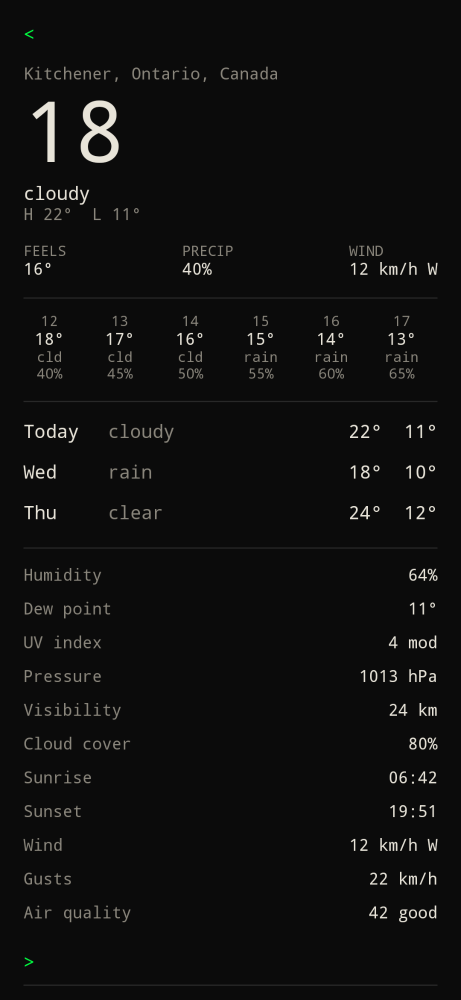
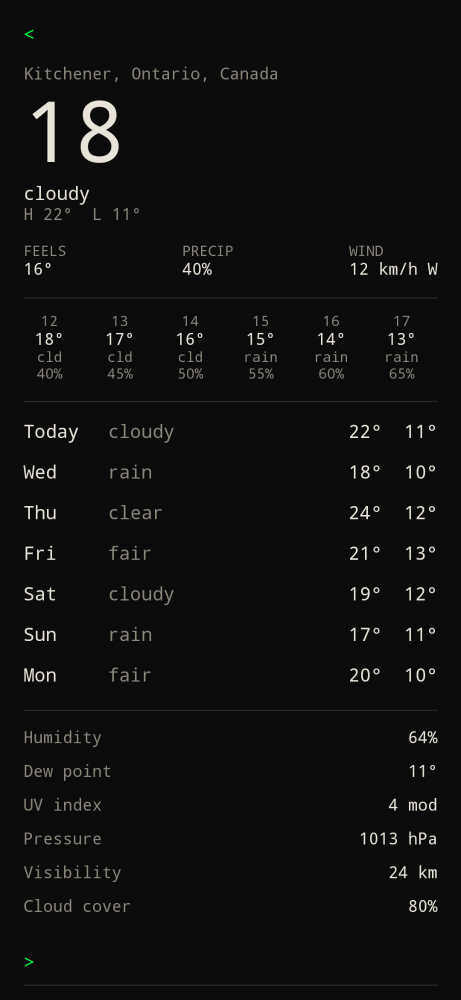
fix: show seven daily rows on the weather screen
The forecast already requested a week from Open-Meteo; the sample and
parser now keep seven days so the list is not a three-day stub.

diff --git a/app/src/test/java/xyz/cdr/builderlauncher/weather/WeatherForecastParserTest.kt b/app/src/test/java/xyz/cdr/builderlauncher/weather/WeatherForecastParserTest.kt
@@ -81,4 +81,29 @@ class WeatherForecastParserTest {
         assertEquals("cld", WeatherCodes.short(3))
         assertEquals("rain", WeatherCodes.short(61))
     }
+
+    @Test
+    fun keepsSevenDailyRows() {
+        val dates = (8..16).joinToString(",") { "\"2026-09-${it.toString().padStart(2, '0')}\"" }
+        val nums = (8..16).joinToString(",") { it.toString() }
+        val raw = """
+            {
+              "latitude": 43.45,
+              "longitude": -80.49,
+              "timezone": "America/Toronto",
+              "current": { "temperature_2m": 18, "weather_code": 3 },
+              "hourly": { "time": [], "temperature_2m": [], "weather_code": [] },
+              "daily": {
+                "time": [$dates],
+                "weather_code": [$nums],
+                "temperature_2m_max": [$nums],
+                "temperature_2m_min": [$nums]
+              }
+            }
+        """.trimIndent()
+        val forecast = WeatherForecastParser.parse(raw, fetchedAt = 0L)!!
+        assertEquals(WeatherForecast.DAYS, forecast.daily.size)
+        assertEquals("2026-09-08", forecast.daily.first().date)
+        assertEquals("2026-09-14", forecast.daily.last().date)
+    }
 }

diff --git a/app/src/main/java/xyz/cdr/builderlauncher/weather/WeatherForecast.kt b/app/src/main/java/xyz/cdr/builderlauncher/weather/WeatherForecast.kt
@@ -68,6 +68,10 @@ data class WeatherForecast(
     val daily: List<WeatherDay> = emptyList(),
     val aqi: Int? = null,
 ) {
+    companion object {
+        const val DAYS = 7
+    }
+
     fun snapshot(): WeatherSnapshot = WeatherSnapshot(
         temperature = current.temperatureC,
         condition = WeatherCodes.label(current.code),
@@ -173,7 +177,7 @@ object WeatherForecastParser {
                 sunset = sunsets.getOrNull(i)?.let { clockOf(it) },
                 uv = uvs.getOrNull(i),
             )
-        }.take(7)
+        }.take(WeatherForecast.DAYS)
     }
 
     private fun parseLocal(raw: String, zone: ZoneId): Long? {

diff --git a/app/src/main/java/xyz/cdr/builderlauncher/ui/LauncherChrome.kt b/app/src/main/java/xyz/cdr/builderlauncher/ui/LauncherChrome.kt
@@ -853,6 +853,10 @@ fun sampleWeatherForecast(): WeatherForecast {
             WeatherDay("2026-09-08", 3, 22, 11, 40, "06:42", "19:51", 5.4),
             WeatherDay("2026-09-09", 61, 18, 10, 80, "06:43", "19:49", 3.1),
             WeatherDay("2026-09-10", 0, 24, 12, 10, "06:44", "19:47", 6.0),
+            WeatherDay("2026-09-11", 2, 21, 13, 20, "06:45", "19:45", 5.8),
+            WeatherDay("2026-09-12", 3, 19, 12, 35, "06:46", "19:43", 4.2),
+            WeatherDay("2026-09-13", 61, 17, 11, 70, "06:47", "19:41", 2.8),
+            WeatherDay("2026-09-14", 1, 20, 10, 15, "06:48", "19:39", 5.1),
         ),
         aqi = 42,
     )

diff --git a/app/src/main/java/xyz/cdr/builderlauncher/ui/WeatherScreen.kt b/app/src/main/java/xyz/cdr/builderlauncher/ui/WeatherScreen.kt
@@ -119,7 +119,7 @@ fun WeatherBody(place: String, units: WeatherUnits, forecast: WeatherForecast) {
     HorizontalDivider(color = Line)
     Spacer(Modifier.height(8.dp))
     val todayIso = LocalDate.now().toString()
-    forecast.daily.forEach { day ->
+    forecast.daily.take(WeatherForecast.DAYS).forEach { day ->
         Row(
             Modifier.fillMaxWidth().padding(vertical = 6.dp),
             horizontalArrangement = Arrangement.SpaceBetween,
